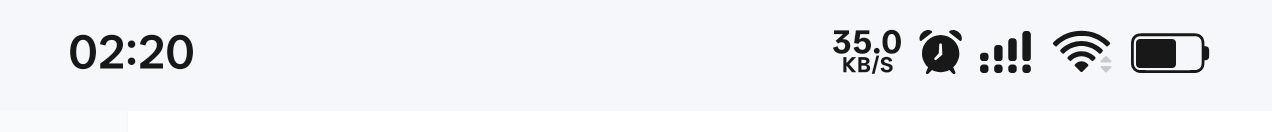
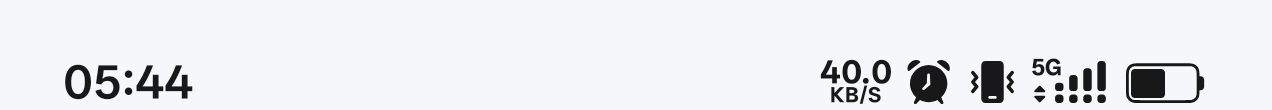
1.10 更新日志补状态栏截图

Changed region(s): [[0.6439, 0.2182, 0.9505, 0.9545], [0.0307, 0.5727, 0.1533, 0.9], [0.0307, 0.2455, 0.1533, 0.5455]]

diff --git a/README.md b/README.md
@@ -50,6 +50,8 @@
 - 进入下拉通知栏时保持系统原厂行为，模块不做任何修改。
 - 清理失效引用与遗留注释。
 
+![状态栏](statusbar.png)
+
 ### 1.9
 - 优化网速统计逻辑，改为按真实字节数计算。
 - 仅统计物理出口网卡，提升网速数据的真实性与准确性。
